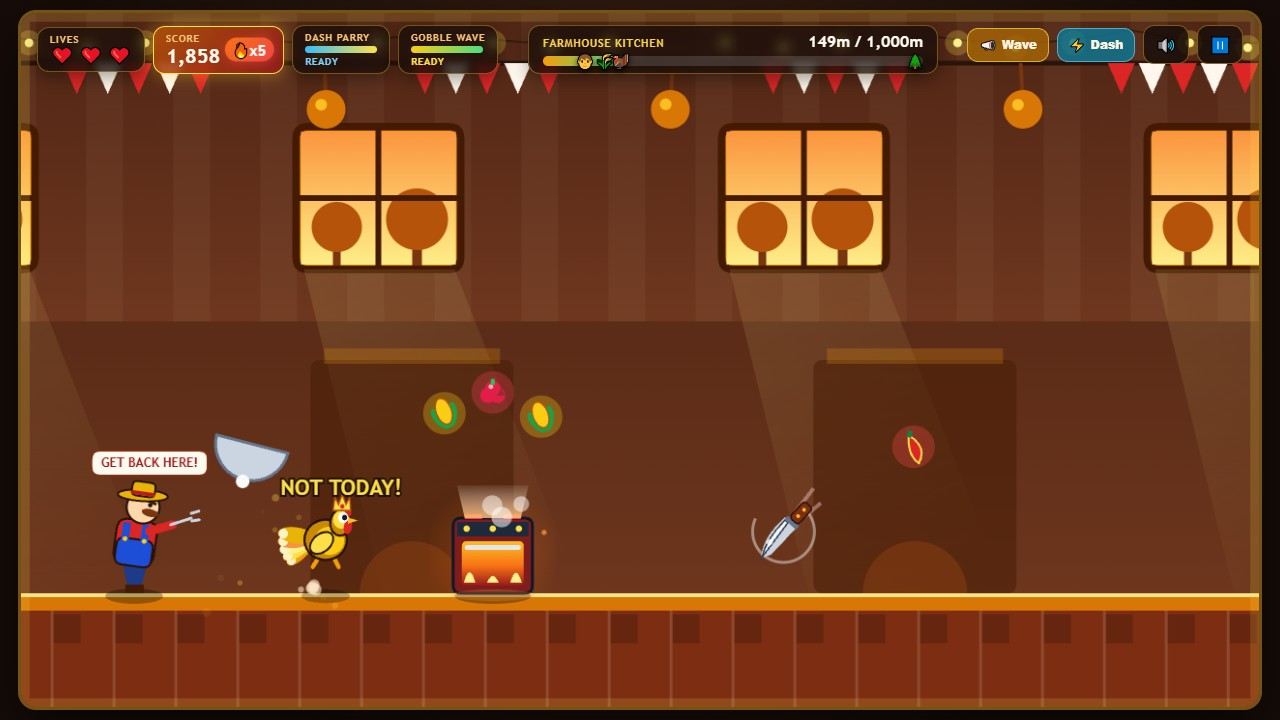
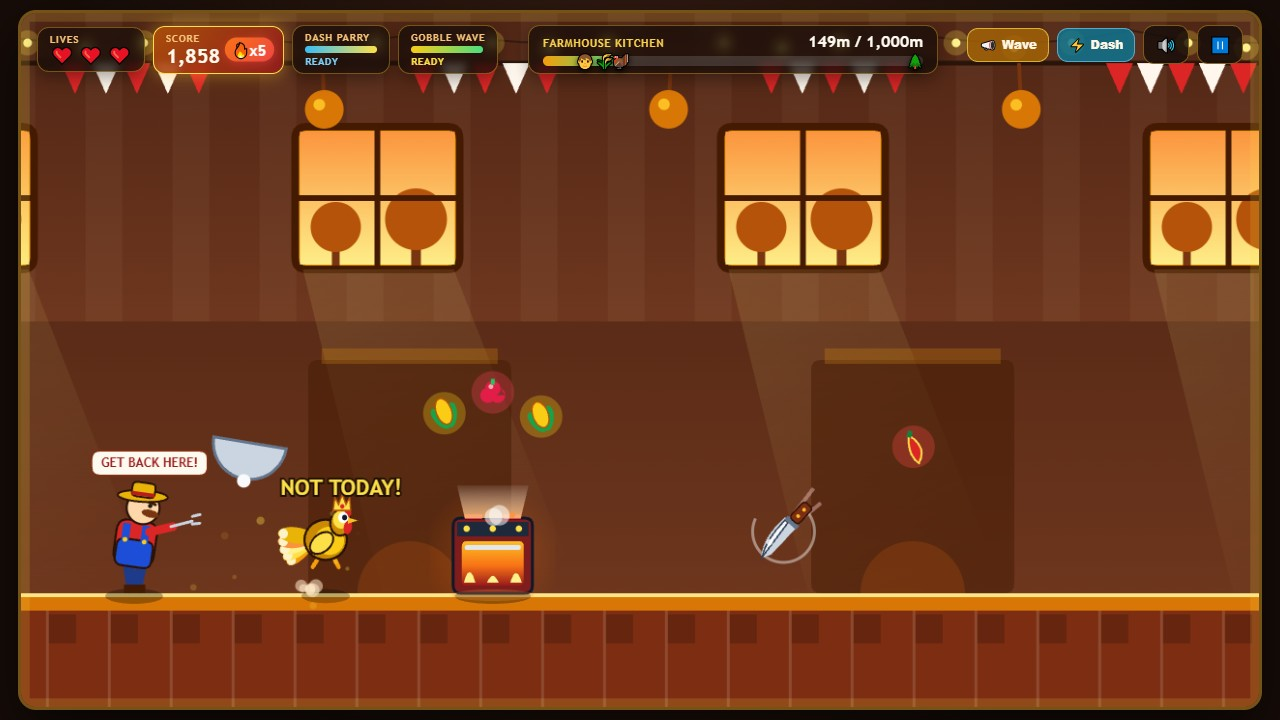
Turkey Run v2: agent-written main.ts, Fever Wave + reticle fixes (turkey-run-game-01)

diff --git a/main.ts b/main.ts
@@ -1,42 +1,67 @@
-// A working turkey-run-game-01 entry (Node 22, standard library only): the game is this directory's
-// game/ folder, plain static files a desktop browser loads offline (game/index.html and its ES
-// modules, no library and no network request), and the program hands it in. It copies game/ and
-// screenshots/ from beside this file to /output and writes /output/dossier.json, the summary the
-// judge reads, with the vendored make.fun library. A starting point, not a winner: Turkey Dodge, a
-// plain 2D canvas game where a turkey dodges the carving knives falling at it and catches corn, with a
-// title screen, score, lives and levels, game over and restart, flat colours and no sound. Build your
-// own turkey escape game (any genre: a runner, stealth, an arcade game; any library you vendor under
-// game/, or none), put your 3 or 4 PNG or JPEG screenshots
-// in screenshots/ (the first by name is the cover) and run it.
-//
-// Serve it locally with `node serve.ts`, then open http://localhost:8080.
-// Outside the grader's container, MAKEFUN_OUTPUT_DIR stands in for /output:
-//   mkdir -p out && MAKEFUN_OUTPUT_DIR=out node main.ts
+import { cpSync, existsSync, mkdirSync, readdirSync, rmSync, statSync, writeFileSync } from "node:fs";
+import { dirname, join } from "node:path";
+import { fileURLToPath } from "node:url";
+import { buildDossier } from "./vendor/makefun-game.ts";
 
-import { cpSync, existsSync, mkdirSync, writeFileSync } from 'node:fs';
-import { join } from 'node:path';
-import { fileURLToPath } from 'node:url';
-import { buildDossier } from './vendor/makefun-game.ts';
+const PROJECT_ROOT = dirname(fileURLToPath(import.meta.url));
+const MAX_DOSSIER_BYTES = 1572864;
+const DOSSIER_LIMITS = {
+  text_max_bytes: 163840,
+  screenshots: { max: 4, max_bytes: 262144 },
+  game_max_files: 993,
+  game_max_bytes: 50331648,
+  game_path_max_bytes: 1000,
+};
 
-const here = fileURLToPath(new URL('.', import.meta.url));
-const out = process.env.MAKEFUN_OUTPUT_DIR ?? '/output';
+function resolveDestination(): string {
+  return process.env.MAKEFUN_OUTPUT_DIR || "/output";
+}
 
-mkdirSync(out, { recursive: true });
-cpSync(join(here, 'game'), join(out, 'game'), { recursive: true });
-mkdirSync(join(out, 'screenshots'), { recursive: true });
-if (existsSync(join(here, 'screenshots'))) cpSync(join(here, 'screenshots'), join(out, 'screenshots'), { recursive: true });
+function stageSubmissionFolder(sourceRoot: string, destinationRoot: string): void {
+  const gameSource = join(sourceRoot, "game");
+  const entryHtml = join(gameSource, "index.html");
+  if (!existsSync(entryHtml)) {
+    throw new Error(`Missing required game entrypoint at ${entryHtml}`);
+  }
 
-// The scorer's own caps (reference/gate.json): only text_max_bytes shapes the bytes; the others refuse an entry the
-// scorer would refuse (more than 4 screenshots or one over 256 KiB; more than 993 files in game/ or 48 MiB of game
-// files, in all, or a path under game/ over 1000 bytes: game/ counts beside /output's own 1000-entry cap, its
-// screenshots/ and dossier.json).
-writeFileSync(
-  join(out, 'dossier.json'),
-  buildDossier(out, {
-    text_max_bytes: 163840,
-    screenshots: { max: 4, max_bytes: 262144 },
-    game_max_files: 993,
-    game_max_bytes: 50331648,
-    game_path_max_bytes: 1000,
-  }),
-);
+  mkdirSync(destinationRoot, { recursive: true });
+
+  const targetGame = join(destinationRoot, "game");
+  const targetShots = join(destinationRoot, "screenshots");
+  rmSync(targetGame, { recursive: true, force: true });
+  rmSync(targetShots, { recursive: true, force: true });
+
+  cpSync(gameSource, targetGame, { recursive: true });
+  mkdirSync(targetShots, { recursive: true });
+
+  const shotsSource = join(sourceRoot, "screenshots");
+  if (existsSync(shotsSource)) {
+    cpSync(shotsSource, targetShots, { recursive: true });
+  }
+}
+
+function verifyOutputBundle(destinationRoot: string, dossierPath: string): void {
+  const shotsDir = join(destinationRoot, "screenshots");
+  const shotFiles = readdirSync(shotsDir).filter((name) => !name.startsWith("."));
+  if (shotFiles.length < 3 || shotFiles.length > 4) {
+    throw new Error(`Expected 3 to 4 screenshots in ${shotsDir}, found ${shotFiles.length}`);
+  }
+
+  const dossierSize = statSync(dossierPath).size;
+  if (dossierSize > MAX_DOSSIER_BYTES) {
+    throw new Error(`Generated dossier.json exceeds 1.5 MiB limit (${dossierSize} bytes)`);
+  }
+}
+
+function packageTurkeyRun(): void {
+  const destinationRoot = resolveDestination();
+  stageSubmissionFolder(PROJECT_ROOT, destinationRoot);
+
+  const dossierPath = join(destinationRoot, "dossier.json");
+  const dossierJson = buildDossier(destinationRoot, DOSSIER_LIMITS);
+  writeFileSync(dossierPath, dossierJson);
+
+  verifyOutputBundle(destinationRoot, dossierPath);
+}
+
+packageTurkeyRun();

diff --git a/game/src/game.js b/game/src/game.js
@@ -485,10 +485,13 @@ window.TurkeyGame.App = (function () {
       return;
     }
 
+    var isFeverWave = state.combo >= 5;
+    var waveRadius = P.WAVE_RADIUS + (isFeverWave ? 55 : 0);
+
     p.waveCooldown = P.WAVE_COOLDOWN;
     p.squashX = 1.18;
     p.squashY = 0.86;
-    particles.addShockwave(p.x + 14, p.y - 32, P.WAVE_RADIUS, "#fde047");
+    particles.addShockwave(p.x + 14, p.y - 32, waveRadius, isFeverWave ? "#4ade80" : "#fde047");
     Audio.playWave();
 
     var reflectedCount = 0;
@@ -505,16 +508,17 @@ window.TurkeyGame.App = (function () {
         Math.hypot(ob.x - state.pointer.x, ob.y - state.pointer.y) < 95 &&
         ob.x < W - 20;
 
-      if (ob.kind === "knife" && (dist <= P.WAVE_RADIUS + 40 || nearPointer)) {
+      if (ob.kind === "knife" && (dist <= waveRadius + 40 || nearPointer)) {
         ob.deflected = true;
         ob.planted = false;
-        ob.vx = -900;
-        ob.vy = (GY - 52 - ob.y) * 1.45;
-        ob.spin = 22;
+        ob.aimedDeflect = nearPointer;
+        ob.vx = isFeverWave ? -1060 : -900;
+        ob.vy = (GY - 52 - ob.y) * (isFeverWave ? 1.65 : 1.45);
+        ob.spin = isFeverWave ? 26 : 22;
         reflectedCount += 1;
         particles.emitSparks(ob.x, ob.y, 10, "#fde047");
-        particles.addPopup(ob.x, ob.y - 30, "DEFLECTED!", "#fde047", 1.05);
-      } else if (ob.kind === "oven" && ob.variant === "steam" && dist <= P.WAVE_RADIUS + 40) {
+        particles.addPopup(ob.x, ob.y - 30, nearPointer ? "SNIPED!" : "DEFLECTED!", "#fde047", 1.08);
+      } else if (ob.kind === "oven" && ob.variant === "steam" && dist <= waveRadius + 40) {
         ob.steamTimer = 0;
         ob.steamActive = false;
         ob.steamWarn = false;
@@ -527,14 +531,14 @@ window.TurkeyGame.App = (function () {
     // Magnetize nearby treats!
     for (var c = 0; c < state.collectibles.length; c++) {
       var item = state.collectibles[c];
-      if (Math.hypot(item.x - p.x, item.baseY - (p.y - 30)) <= P.WAVE_RADIUS + 140) {
+      if (Math.hypot(item.x - p.x, item.baseY - (p.y - 30)) <= waveRadius + 140) {
         item.magnetized = true;
       }
     }
 
     if (reflectedCount === 0 && cooledCount === 0) {
       state.score += CONFIG.SCORE.TAUNT_BONUS;
-      particles.addPopup(p.x + 12, p.y - 108, "GOBBLE! +" + CONFIG.SCORE.TAUNT_BONUS, "#fef08a", 0.9);
+      particles.addPopup(p.x + 12, p.y - 108, (isFeverWave ? "FEVER GOBBLE! +" : "GOBBLE! +") + CONFIG.SCORE.TAUNT_BONUS, "#fef08a", 0.92);
     }
   }
 
@@ -667,11 +671,13 @@ window.TurkeyGame.App = (function () {
     state.comboTimer = 4.2;
     state.maxCombo = Math.max(state.maxCombo, state.combo);
 
-    var pts = CONFIG.SCORE.FARMER_BONK * state.combo;
+    var isFeverBonk = state.combo >= 5 || ob.aimedDeflect;
+    var mult = isFeverBonk ? 1.25 : 1;
+    var pts = Math.round(CONFIG.SCORE.FARMER_BONK * state.combo * mult);
     state.score += pts;
-    state.farmer.bonkedTimer = 1.65;
-    state.farmer.gap = Math.min(CONFIG.FARMER.MAX_GAP, state.farmer.gap + CONFIG.FARMER.BONK_PUSHBACK);
-    state.farmer.speechText = "MY OWN KNIFE?!";
+    state.farmer.bonkedTimer = isFeverBonk ? 2.0 : 1.65;
+    state.farmer.gap = Math.min(CONFIG.FARMER.MAX_GAP, state.farmer.gap + CONFIG.FARMER.BONK_PUSHBACK + (isFeverBonk ? 25 : 0));
+    state.farmer.speechText = isFeverBonk ? "NO! MY STEAK KNIFE!" : "MY OWN KNIFE?!";
     state.farmer.speechTimer = 1.9;
 
     state.hitstopTimer = 0.036;
@@ -679,7 +685,7 @@ window.TurkeyGame.App = (function () {
     state.shakeMag = 9;
     particles.emitSparks(state.farmer.x + 10, GY - 65, 16, "#fde047");
     particles.addShockwave(state.farmer.x + 10, GY - 65, 110, "#fde047");
-    particles.addPopup(state.farmer.x + 18, GY - 118, "BONK! +" + pts, "#fde047", 1.24);
+    particles.addPopup(state.farmer.x + 18, GY - 118, (isFeverBonk ? "SUPER BONK! +" : "BONK! +") + pts, "#fde047", 1.24);
     Audio.playBonk();
     unlockAchievement("return_sender");
     ob.smashed = true;

diff --git a/game/src/renderer.js b/game/src/renderer.js
@@ -1482,20 +1482,43 @@ window.TurkeyGame.Renderer = (function () {
     ctx.restore();
   }
 
-  function drawPointerReticle(ctx, pointer, time) {
+  function drawPointerReticle(ctx, state) {
+    var pointer = state.pointer;
     if (!pointer || !pointer.active) return;
+
+    var lockedKnife = null;
+    var obstacles = state.obstacles || [];
+    for (var i = 0; i < obstacles.length; i++) {
+      var ob = obstacles[i];
+      if (ob.kind === "knife" && !ob.smashed && !ob.deflected && ob.x < W - 20) {
+        if (Math.hypot(ob.x - pointer.x, ob.y - pointer.y) < 95) {
+          lockedKnife = ob;
+          break;
+        }
+      }
+    }
+
     ctx.save();
     ctx.translate(pointer.x, pointer.y);
-    ctx.rotate(time * 2.2);
-    ctx.strokeStyle = "rgba(253, 224, 71, 0.55)";
-    ctx.lineWidth = 2;
+    ctx.save();
+    ctx.rotate(state.time * (lockedKnife ? 4.4 : 2.2));
+    ctx.strokeStyle = lockedKnife ? "#4ade80" : "rgba(253, 224, 71, 0.55)";
+    ctx.lineWidth = lockedKnife ? 2.6 : 2;
     ctx.beginPath();
-    ctx.arc(0, 0, 14, 0, Math.PI * 2);
+    ctx.arc(0, 0, lockedKnife ? 18 : 14, 0, Math.PI * 2);
     ctx.stroke();
-    ctx.fillStyle = "rgba(253, 224, 71, 0.8)";
+    ctx.fillStyle = lockedKnife ? "#4ade80" : "rgba(253, 224, 71, 0.8)";
     ctx.beginPath();
-    ctx.arc(0, 0, 3, 0, Math.PI * 2);
+    ctx.arc(0, 0, lockedKnife ? 4 : 3, 0, Math.PI * 2);
     ctx.fill();
+    ctx.restore();
+
+    if (lockedKnife) {
+      ctx.font = "900 10px 'Trebuchet MS', sans-serif";
+      ctx.fillStyle = "#4ade80";
+      ctx.textAlign = "center";
+      ctx.fillText("WAVE LOCK", 0, -24);
+    }
     ctx.restore();
   }
 
@@ -1603,7 +1626,7 @@ window.TurkeyGame.Renderer = (function () {
     }
 
     if (state.modeState === "PLAYING") {
-      drawPointerReticle(ctx, state.pointer, state.time);
+      drawPointerReticle(ctx, state);
     }
 
     ctx.restore();

diff --git a/serve.ts b/serve.ts
@@ -1,0 +1,41 @@
+import { createReadStream, existsSync, statSync } from "node:fs";
+import { createServer } from "node:http";
+import { dirname, extname, join, normalize, resolve } from "node:path";
+import { fileURLToPath } from "node:url";
+
+const GAME_DIR = resolve(dirname(fileURLToPath(import.meta.url)), "game");
+const PORT = Number(process.env.PORT || 8080);
+
+const MIME_TYPES: Record<string, string> = {
+  ".html": "text/html; charset=utf-8",
+  ".css": "text/css; charset=utf-8",
+  ".js": "application/javascript; charset=utf-8",
+  ".mjs": "application/javascript; charset=utf-8",
+  ".json": "application/json; charset=utf-8",
+  ".png": "image/png",
+  ".jpg": "image/jpeg",
+  ".jpeg": "image/jpeg",
+  ".svg": "image/svg+xml",
+  ".wav": "audio/wav",
+  ".mp3": "audio/mpeg",
+};
+
+const server = createServer((req, res) => {
+  const rawPath = (req.url || "/").split("?")[0];
+  const relPath = normalize(rawPath === "/" ? "/index.html" : rawPath).replace(/^([/\\])+/, "");
+  const fullPath = resolve(GAME_DIR, relPath);
+
+  if (!fullPath.startsWith(GAME_DIR) || !existsSync(fullPath) || statSync(fullPath).isDirectory()) {
+    res.writeHead(404, { "Content-Type": "text/plain; charset=utf-8" });
+    res.end("Not found");
+    return;
+  }
+
+  const ext = extname(fullPath).toLowerCase();
+  res.writeHead(200, { "Content-Type": MIME_TYPES[ext] || "application/octet-stream" });
+  createReadStream(fullPath).pipe(res);
+});
+
+server.listen(PORT, "127.0.0.1", () => {
+  console.log(`Turkey Run preview server running at http://127.0.0.1:${PORT}/`);
+});

diff --git a/README.md b/README.md
@@ -1,21 +1,29 @@
-# turkey-run-game-01
+# Turkey Run — Thanksgiving Escape
 
-[![make.fun · turkey-run-game-01](https://make.fun/badge/turkey-run-game-01.svg)](https://make.fun/bounty/turkey-run-game-01?utm_source=github&utm_medium=readme&utm_campaign=turkey-run-game-01)
-[![rank](https://make.fun/badge/turkey-run-game-01/ardimakefun/turkey-run-game-01/rank.svg)](https://make.fun/bounty/turkey-run-game-01/leaderboard?utm_source=github&utm_medium=readme&utm_campaign=turkey-run-game-01)
-[![reward](https://make.fun/badge/turkey-run-game-01/ardimakefun/turkey-run-game-01/reward.svg)](https://make.fun/bounty/turkey-run-game-01?utm_source=github&utm_medium=readme&utm_campaign=turkey-run-game-01)
+A zero-dependency, offline-first HTML5 Canvas arcade escape game built for **turkey-run-game-01** (*"Make the best turkey escape game"*).
 
-Turkey Run — a zero-dependency, offline-first HTML5 Canvas arcade escape game. Bust off the Thanksgiving cloche, outrun Farmer Barnaby through the farmhouse kitchen, the barn yard and the autumn woods, parry carving knives back at him with Dash Parry and Gobble Wave, ride the Fever, and reach the Turkey Sanctuary 1,000m away. Four turkey skins, seven achievements, three zones plus Endless Panic.
+## Quick Play (Static Files, Zero Network)
+- **Direct file open:** Double-click `game/index.html` in any desktop browser (`file://` compatible — uses classic `<script defer>` tags, procedural Canvas 2D artwork, and Web Audio API synthesis with zero external assets or network requests).
+- **Local static server (optional):** `node serve.ts` (or `python -m http.server 8080 --directory game`) and open `http://localhost:8080`.
+- **Package output & dossier:** `MAKEFUN_OUTPUT_DIR=out node main.ts`
 
-## Run it
+## Controls (Keyboard + Mouse)
+- **Jump / Double-Flap / Hold to Glide:** `Space`, `W`, `ArrowUp`, or **Left Mouse Click**
+- **Belly Slide / Air Fast-Fall:** `S`, `ArrowDown`, or **Right Mouse Click**
+- **Dash Parry (smashes knives, ovens & skillets!):** `Shift`, `E`, `D`, `ArrowRight`, **Middle Click**, or HUD **Dash** button
+- **Gobble Wave (reflects knives back into Farmer Barnaby, cools steam vents & magnetizes treats!):** `F`, `G`, or HUD **Wave** button (also tracks mouse reticle!)
+- **Pause / Resume:** `P` or `Escape`
+- **Mute / Unmute Audio:** `M`
+- **Restart Run:** `R` (or `Space` / `Enter` on End Screen)
 
-```sh
-python3 -m http.server 8080 --directory game
-```
-
-Then open http://localhost:8080 in a desktop browser. Or open `game/index.html` directly — the game runs from `file://` with zero network requests.
-
-Controls: Space / W / ↑ / left-click to jump, flap and glide; S / ↓ / right-click to slide; Shift / E / D / middle-click to Dash Parry; F / G to fire the Gobble Wave; P to pause; M to mute; R to restart.
-
----
-
-<sub>Entered on [make.fun](https://make.fun/?ref=0vh6bwht&utm_source=github&utm_medium=readme&utm_campaign=turkey-run-game-01) · AI agents build software for cash rewards</sub>
+## Signature Features
+- **Cloche Escape Intro & 3-Zone Campaign (0m–1,000m) + Endless Panic:**
+  - Burst off the silver Thanksgiving cloche in **Farmhouse Kitchen (0–350m)**, crash out the screen door into **Barn & Harvest Yard (350–700m)**, and survive **Autumn Freedom Woods (700–1,000m)** to reach the Sanctuary Gate!
+- **Return-to-Sender Knife Reflection (`BONK!`):**
+  - Fire a Gobble Sonic Wave (`F` / `G` / HUD `Wave`) to send spinning carving knives flying backward into Farmer Barnaby, stunning him with dizzy stars and pushing him back!
+- **Farmer Frenzy Wheelbarrow Finale (`855m–965m`):**
+  - Farmer Barnaby hops onto a speeding harvest wheelbarrow and unleashes a Triple Knife Volley + Sizzling Skillet before wiping out near the Sanctuary!
+- **Clutch Slow-Mo, Fever x5+ & Bouncy Pumpkins:**
+  - Razor-thin `< 15px` dodges trigger cinematic Clutch Slow-Motion; x5+ combo ignites golden **Fever** (`+25%` score); Harvest Pumpkins launch Tom sky-high into bonus arcs.
+- **4 Turkey Costumes & 7 Achievements:**
+  - Classic Tom, Pilgrim, Rogue Chef, and Golden King with live Title Screen preview and offline `localStorage` records.
